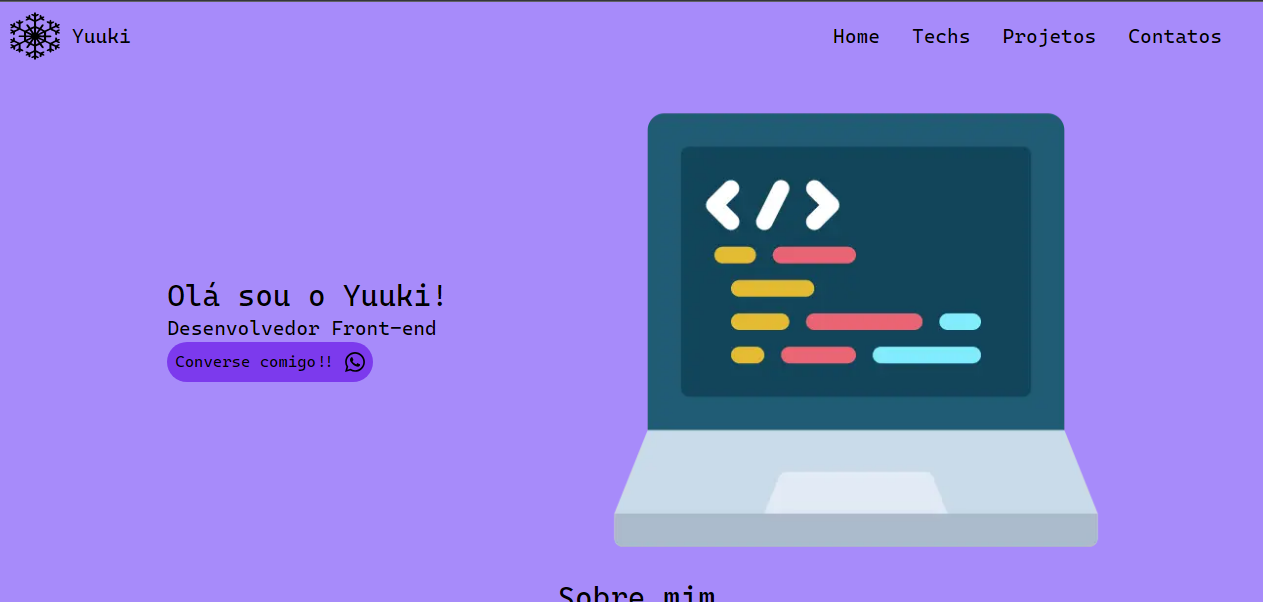
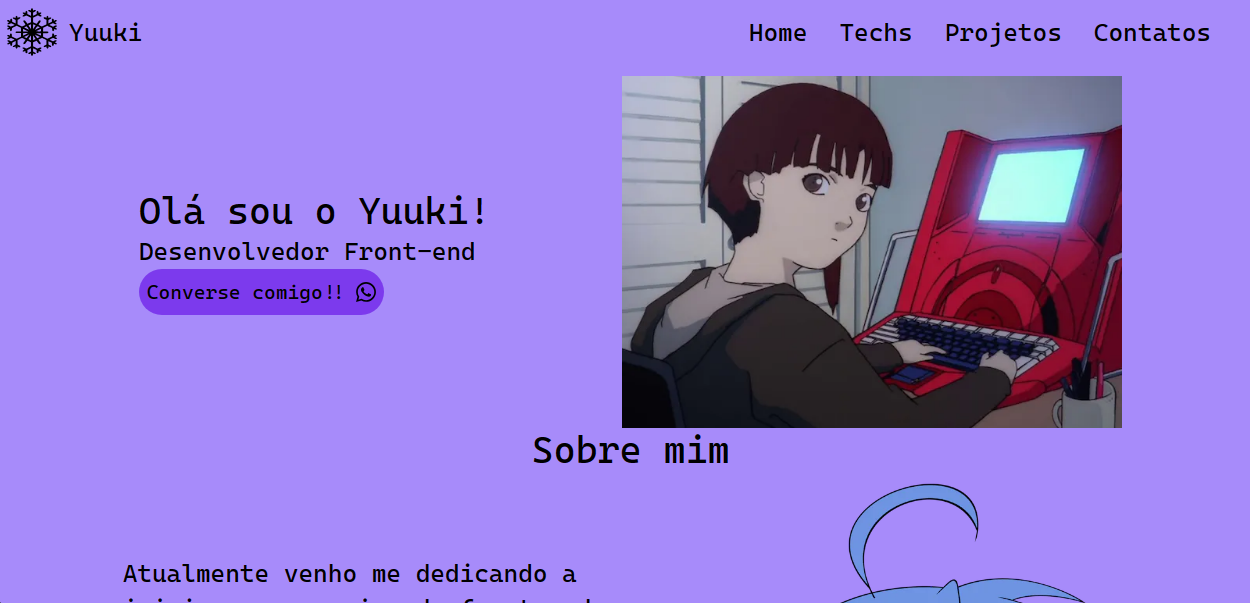
borders and shadow to imgs

diff --git a/src/components/MainSection/index.tsx b/src/components/MainSection/index.tsx
@@ -15,12 +15,19 @@ export default function MainSection() {
             <button className='flex flex-row bg-violet-600 rounded-full border-100 px-1 py-1 items-center'>
             <p className="mr-[10px]">Converse comigo!!</p> 
             
-            <Image src='/whatsapp.svg' alt='Whatsapp Icon' width='20' height='20'></Image>
+            <Image 
+              src='/whatsapp.svg'
+              alt='Whatsapp Icon'
+              width='20' 
+              height='20'
+              ></Image>
             </button>
           </Link>
         </div>
       <div> {/* container da imagem que fica a direita */}
-        <Image src="/programming.png" alt="Em breve Placeholder" width='500' height='500' />
+        <Image src="/programming.png" alt="Laincore" width='500' height='500'
+         className='rounded-[15px] shadow-[1px_1px_5px] shadow-black border-[2.5px] border-black mb-5'
+         />
       </div>
       </div>
     <div>

diff --git a/src/components/Projects/index.tsx b/src/components/Projects/index.tsx
@@ -13,7 +13,7 @@ export default function Projects({projects}:{ projects:JsonData["projects"] }) {
           <li key={project.id}>
             <Link className='' href={project.link}>
               <Image src={project.image} alt={project.title} width='500' height='280'
-              className='rounded-[15px] h-[280px]'>
+              className='rounded-[15px] h-[280px] shadow-[1px_1px_5px] shadow-black border-[2.5px] border-black'>
               </Image>
             </Link>
             <h1 className='flex justify-center mt-[10px]'>{project.title}</h1>
